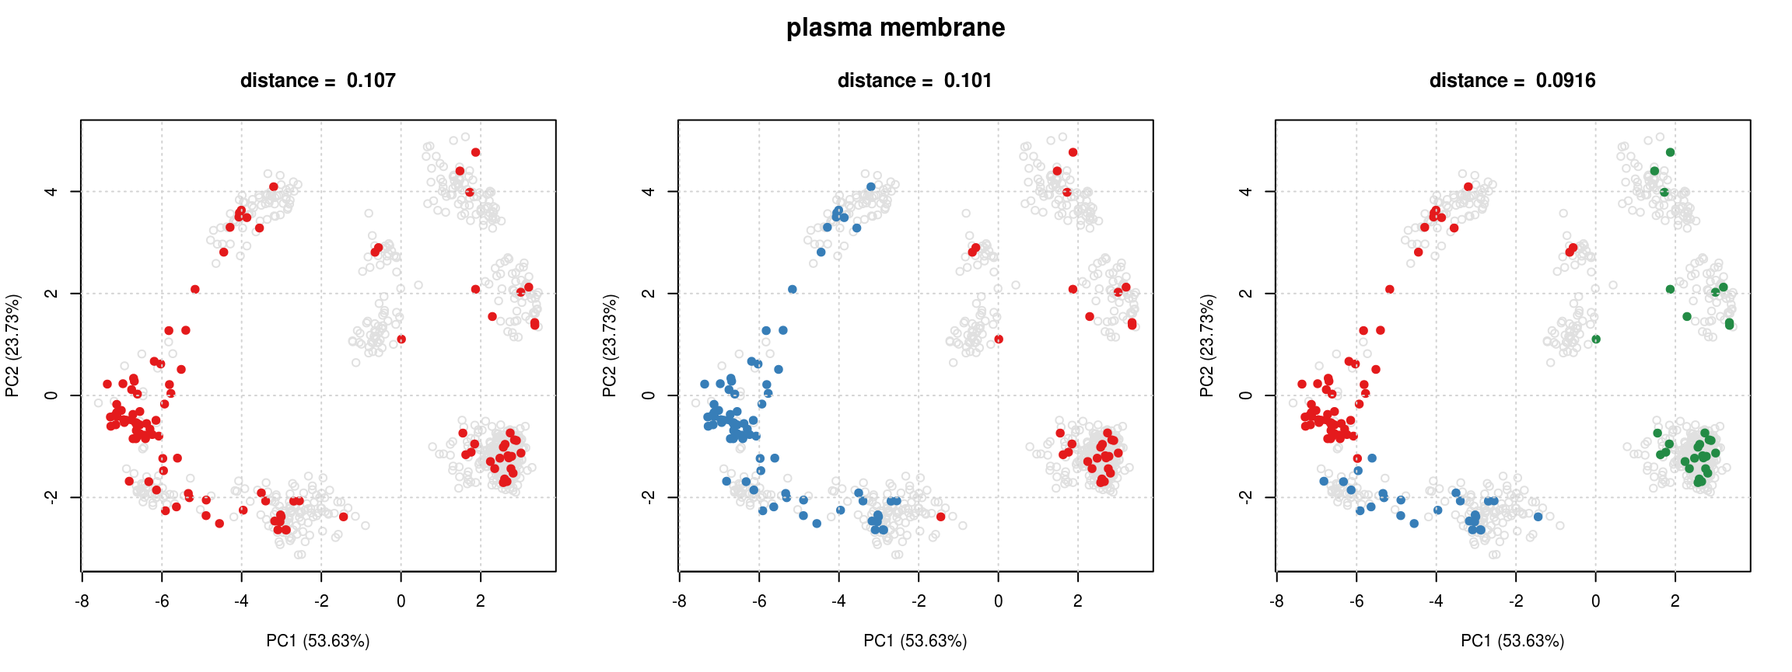
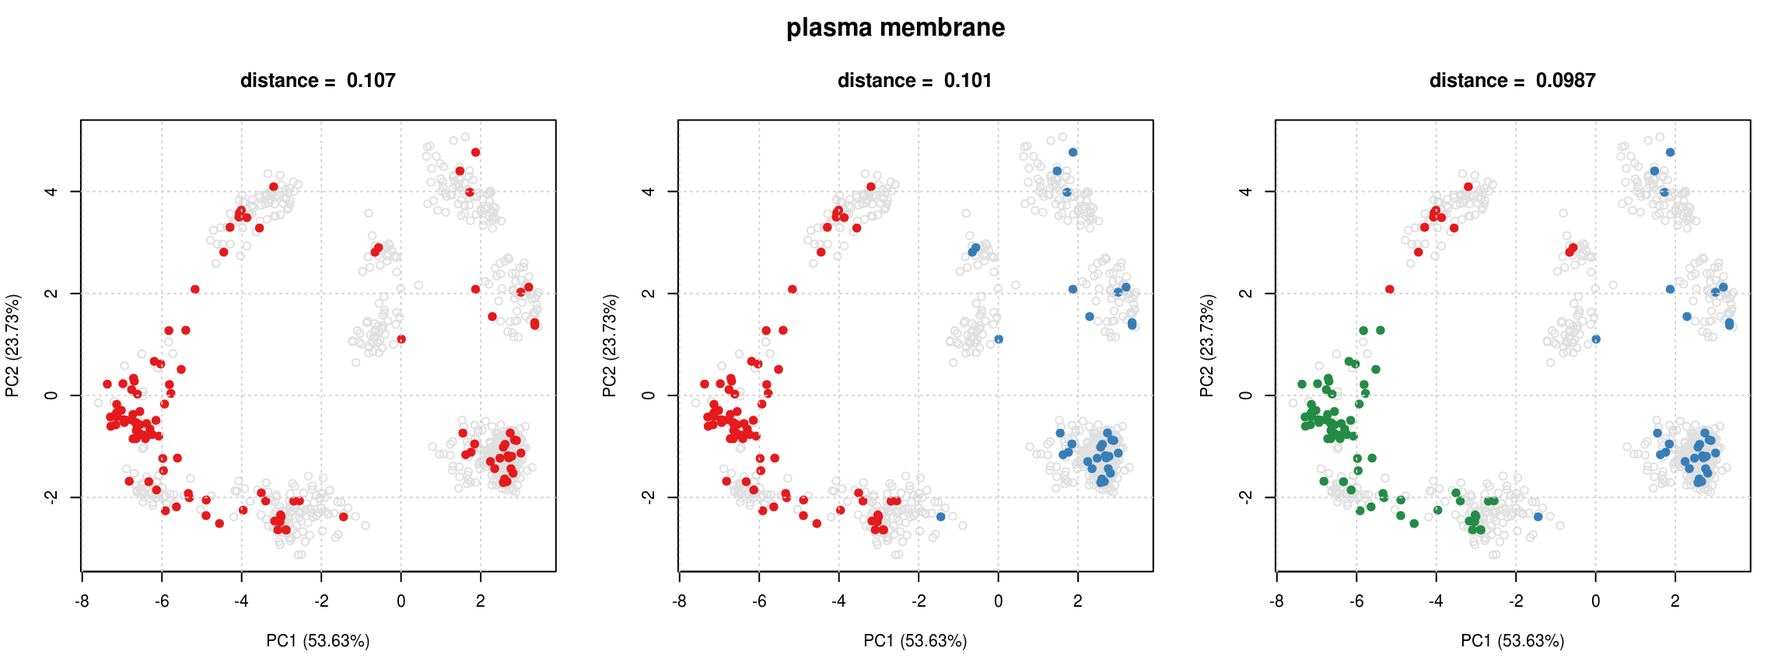
Deploy lgatto/pRoloc to github.com/lgatto/pRoloc.git:gh-pages

diff --git a/reference/plsdaClassification.html b/reference/plsdaClassification.html
@@ -194,8 +194,8 @@ from package <code>caret</code>.</p></td>
 #&gt; 
 #&gt; function (x, ...) 
 #&gt; standardGeneric("params")
-#&gt; &lt;bytecode: 0x593f168&gt;
-#&gt; &lt;environment: 0x5970220&gt;
+#&gt; &lt;bytecode: 0x5c0c6a8&gt;
+#&gt; &lt;environment: 0x5c17750&gt;
 #&gt; Methods may be defined for arguments: x
 #&gt; Use  showMethods("params")  for currently available ones.</div><div class='input'><span class='fu'><a href='https://www.rdocumentation.org/packages/graphics/topics/plot'>plot</a></span>(<span class='no'>params</span>)</div><div class='output co'>#&gt; <span class='error'>Error in (function (classes, fdef, mtable) {    methods &lt;- .findInheritedMethods(classes, fdef, mtable)    if (length(methods) == 1L)         return(methods[[1L]])    else if (length(methods) == 0L) {        cnames &lt;- paste0("\"", vapply(classes, as.character,             ""), "\"", collapse = ", ")        stop(gettextf("unable to find an inherited method for function %s for signature %s",             sQuote(fdef@generic), sQuote(cnames)), domain = NA)    }    else stop("Internal error in finding inherited methods; didn't return a unique method",         domain = NA)})(list("numeric"), new("standardGeneric", .Data = function (x,     ...) standardGeneric("params"), generic = structure("params", package = "S4Vectors"),     package = "S4Vectors", group = list(), valueClass = character(0),     signature = "x", default = NULL, skeleton = (function (x,         ...)     stop("invalid call in method dispatch to 'params' (no default method)",         domain = NA))(x, ...)), &lt;environment&gt;): unable to find an inherited method for function ‘params’ for signature ‘"numeric"’</span></div><div class='input'><span class='fu'><a href='GenRegRes-class.html'>f1Count</a></span>(<span class='no'>params</span>)</div><div class='output co'>#&gt; <span class='error'>Error in (function (classes, fdef, mtable) {    methods &lt;- .findInheritedMethods(classes, fdef, mtable)    if (length(methods) == 1L)         return(methods[[1L]])    else if (length(methods) == 0L) {        cnames &lt;- paste0("\"", vapply(classes, as.character,             ""), "\"", collapse = ", ")        stop(gettextf("unable to find an inherited method for function %s for signature %s",             sQuote(fdef@generic), sQuote(cnames)), domain = NA)    }    else stop("Internal error in finding inherited methods; didn't return a unique method",         domain = NA)})(list(structure("standardGeneric", package = "methods")), new("standardGeneric",     .Data = function (object, ...)     standardGeneric("f1Count"), generic = structure("f1Count", package = "pRoloc"),     package = "pRoloc", group = list(), valueClass = character(0),     signature = "object", default = NULL, skeleton = (function (object,         ...)     stop("invalid call in method dispatch to 'f1Count' (no default method)",         domain = NA))(object, ...)), &lt;environment&gt;): unable to find an inherited method for function ‘f1Count’ for signature ‘"standardGeneric"’</span></div><div class='input'><span class='fu'><a href='GenRegRes-class.html'>levelPlot</a></span>(<span class='no'>params</span>)</div><div class='output co'>#&gt; <span class='error'>Error in (function (classes, fdef, mtable) {    methods &lt;- .findInheritedMethods(classes, fdef, mtable)    if (length(methods) == 1L)         return(methods[[1L]])    else if (length(methods) == 0L) {        cnames &lt;- paste0("\"", vapply(classes, as.character,             ""), "\"", collapse = ", ")        stop(gettextf("unable to find an inherited method for function %s for signature %s",             sQuote(fdef@generic), sQuote(cnames)), domain = NA)    }    else stop("Internal error in finding inherited methods; didn't return a unique method",         domain = NA)})(list(structure("standardGeneric", package = "methods")), new("standardGeneric",     .Data = function (object, ...)     standardGeneric("levelPlot"), generic = structure("levelPlot", package = "pRoloc"),     package = "pRoloc", group = list(), valueClass = character(0),     signature = "object", default = NULL, skeleton = (function (object,         ...)     stop("invalid call in method dispatch to 'levelPlot' (no default method)",         domain = NA))(object, ...)), &lt;environment&gt;): unable to find an inherited method for function ‘levelPlot’ for signature ‘"standardGeneric"’</span></div><div class='input'><span class='fu'><a href='GenRegRes-class.html'>getParams</a></span>(<span class='no'>params</span>)</div><div class='output co'>#&gt; <span class='error'>Error in (function (classes, fdef, mtable) {    methods &lt;- .findInheritedMethods(classes, fdef, mtable)    if (length(methods) == 1L)         return(methods[[1L]])    else if (length(methods) == 0L) {        cnames &lt;- paste0("\"", vapply(classes, as.character,             ""), "\"", collapse = ", ")        stop(gettextf("unable to find an inherited method for function %s for signature %s",             sQuote(fdef@generic), sQuote(cnames)), domain = NA)    }    else stop("Internal error in finding inherited methods; didn't return a unique method",         domain = NA)})(list(structure("standardGeneric", package = "methods")), new("standardGeneric",     .Data = function (object, ...)     standardGeneric("getParams"), generic = structure("getParams", package = "pRoloc"),     package = "pRoloc", group = list(), valueClass = character(0),     signature = "object", default = NULL, skeleton = (function (object,         ...)     stop("invalid call in method dispatch to 'getParams' (no default method)",         domain = NA))(object, ...)), &lt;environment&gt;): unable to find an inherited method for function ‘getParams’ for signature ‘"standardGeneric"’</span></div><div class='input'><span class='no'>res</span> <span class='kw'>&lt;-</span> <span class='fu'>plsdaClassification</span>(<span class='no'>dunkley2006</span>, <span class='no'>params</span>)</div><div class='output co'>#&gt; <span class='error'>Error in (function (classes, fdef, mtable) {    methods &lt;- .findInheritedMethods(classes, fdef, mtable)    if (length(methods) == 1L)         return(methods[[1L]])    else if (length(methods) == 0L) {        cnames &lt;- paste0("\"", vapply(classes, as.character,             ""), "\"", collapse = ", ")        stop(gettextf("unable to find an inherited method for function %s for signature %s",             sQuote(fdef@generic), sQuote(cnames)), domain = NA)    }    else stop("Internal error in finding inherited methods; didn't return a unique method",         domain = NA)})(list(structure("standardGeneric", package = "methods")), new("standardGeneric",     .Data = function (object, ...)     standardGeneric("getParams"), generic = structure("getParams", package = "pRoloc"),     package = "pRoloc", group = list(), valueClass = character(0),     signature = "object", default = NULL, skeleton = (function (object,         ...)     stop("invalid call in method dispatch to 'getParams' (no default method)",         domain = NA))(object, ...)), &lt;environment&gt;): unable to find an inherited method for function ‘getParams’ for signature ‘"standardGeneric"’</span></div><div class='input'><span class='fu'><a href='getPredictions.html'>getPredictions</a></span>(<span class='no'>res</span>, <span class='kw'>fcol</span> <span class='kw'>=</span> <span class='st'>"plsda"</span>)</div><div class='output co'>#&gt; <span class='error'>Error in fData(object): object 'res' not found</span></div><div class='input'><span class='fu'><a href='getPredictions.html'>getPredictions</a></span>(<span class='no'>res</span>, <span class='kw'>fcol</span> <span class='kw'>=</span> <span class='st'>"plsda"</span>, <span class='kw'>t</span> <span class='kw'>=</span> <span class='fl'>0.9</span>)</div><div class='output co'>#&gt; <span class='error'>Error in fData(object): object 'res' not found</span></div><div class='input'><span class='fu'><a href='plot2D.html'>plot2D</a></span>(<span class='no'>res</span>, <span class='kw'>fcol</span> <span class='kw'>=</span> <span class='st'>"plsda"</span>)</div><div class='output co'>#&gt; <span class='error'>Error in plot2D(res, fcol = "plsda"): object 'res' not found</span></div></pre>
   </div>

diff --git a/articles/v01-pRoloc-tutorial.html b/articles/v01-pRoloc-tutorial.html
@@ -306,7 +306,7 @@ document.addEventListener("DOMContentLoaded", function() {
 ## experimentData: use 'experimentData(object)'
 ## Annotation:  
 ## - - - Processing information - - -
-## Quantitation data loaded: Wed Dec 19 21:36:28 2018  using readMSnSet. 
+## Quantitation data loaded: Thu Dec 20 06:10:10 2018  using readMSnSet. 
 ##  MSnbase version: 2.9.1</code></pre>
 </div>
 </div>
@@ -466,8 +466,8 @@ document.addEventListener("DOMContentLoaded", function() {
 <pre><code>## - - - Processing information - - -
 ## Data loaded: Wed May 11 18:54:39 2011 
 ## Updated from version 0.3.0 to 0.3.1 [Fri Jul  8 20:23:25 2016] 
-## iTRAQ4 quantification by trapezoidation: Wed Dec 19 21:36:30 2018 
-## Normalised (sum): Wed Dec 19 21:36:30 2018 
+## iTRAQ4 quantification by trapezoidation: Thu Dec 20 06:10:12 2018 
+## Normalised (sum): Thu Dec 20 06:10:12 2018 
 ##  MSnbase version: 1.1.22</code></pre>
 <div class="sourceCode" id="cb46"><pre class="sourceCode r"><code class="sourceCode r"><a class="sourceLine" id="cb46-1" data-line-number="1"><span class="kw"><a href="https://www.rdocumentation.org/packages/utils/topics/head">head</a></span>(<span class="kw">exprs</span>(itraqnorm), <span class="dt">n =</span> <span class="dv">3</span>)</a></code></pre></div>
 <pre><code>##     iTRAQ4.114 iTRAQ4.115 iTRAQ4.116 iTRAQ4.117
@@ -749,7 +749,7 @@ Assessing parameter optimisation. On the left, we see the respective distributio
 <a class="sourceLine" id="cb86-4" data-line-number="4"><span class="kw"><a href="https://www.rdocumentation.org/packages/MSnbase/topics/pSet-class">processingData</a></span>(svmres)</a></code></pre></div>
 <pre><code>## - - - Processing information - - -
 ## Added markers from  'mrk' marker vector. Thu Jul 16 22:53:44 2015 
-## Performed svm prediction (sigma=0.1 cost=0.5) Wed Dec 19 21:36:37 2018 
+## Performed svm prediction (sigma=0.1 cost=0.5) Thu Dec 20 06:10:18 2018 
 ##  MSnbase version: 1.17.12</code></pre>
 <div class="sourceCode" id="cb88"><pre class="sourceCode r"><code class="sourceCode r"><a class="sourceLine" id="cb88-1" data-line-number="1"><span class="kw"><a href="https://www.rdocumentation.org/packages/utils/topics/head">tail</a></span>(<span class="kw">fvarLabels</span>(svmres), <span class="dv">4</span>)</a></code></pre></div>
 <pre><code>## [1] "markers"    "markers.tl" "svm"        "svm.scores"</code></pre>
@@ -851,8 +851,8 @@ Organelle-specific SVM score distributions.
 ## Annotation:  
 ## - - - Processing information - - -
 ## Added markers from  'mrk' marker vector. Thu Jul 16 22:53:44 2015 
-## Performed svm prediction (sigma=0.1 cost=0.5) Wed Dec 19 21:36:37 2018 
-## Added svm predictions according to thresholds: ER = 0.84, Golgi = 0.63, mitochondrion = 0.75, PM = 0.76 Wed Dec 19 21:36:37 2018 
+## Performed svm prediction (sigma=0.1 cost=0.5) Thu Dec 20 06:10:18 2018 
+## Added svm predictions according to thresholds: ER = 0.84, Golgi = 0.63, mitochondrion = 0.75, PM = 0.76 Thu Dec 20 06:10:19 2018 
 ##  MSnbase version: 1.17.12</code></pre>
 <p>We can now visualise these results using the plotting functions presented in section @ref(sec:usml), as shown on figure @ref(fig:svmres). We clearly see that besides the organelle marker clusters that have been assigned high confidence members, many other proteins have substantially lower prediction scores.</p>
 <div class="sourceCode" id="cb102"><pre class="sourceCode r"><code class="sourceCode r"><a class="sourceLine" id="cb102-1" data-line-number="1">ptsze &lt;-<span class="st"> </span><span class="kw"><a href="https://www.rdocumentation.org/packages/base/topics/Log">exp</a></span>(<span class="kw">fData</span>(svmres)<span class="op">$</span>svm.scores) <span class="op">-</span><span class="st"> </span><span class="dv">1</span></a>
@@ -965,7 +965,7 @@ Classification results. The results of the second round of classification, using
 <h1 class="hasAnchor">
 <a href="#session-information" class="anchor"></a>Session information</h1>
 <p>All software and respective versions used to produce this document are listed below.</p>
-<pre><code>## R Under development (unstable) (2018-12-19 r75866)
+<pre><code>## R Under development (unstable) (2018-12-20 r75868)
 ## Platform: x86_64-pc-linux-gnu (64-bit)
 ## Running under: Ubuntu 14.04.5 LTS
 ## 

diff --git a/reference/getPredictions.html b/reference/getPredictions.html
@@ -225,8 +225,8 @@ thresholds.</p></div>
 #&gt; Loaded on Thu Jul 16 22:53:08 2015. 
 #&gt; Normalised to sum of intensities. 
 #&gt; Added markers from  'mrk' marker vector. Thu Jul 16 22:53:08 2015 
-#&gt; Performed svm prediction (cost=0.5 sigma=0.1) Wed Dec 19 21:34:57 2018 
-#&gt; Added svm predictions according to global threshold = 0 Wed Dec 19 21:34:57 2018 
+#&gt; Performed svm prediction (cost=0.5 sigma=0.1) Thu Dec 20 06:08:42 2018 
+#&gt; Added svm predictions according to global threshold = 0 Thu Dec 20 06:08:42 2018 
 #&gt;  MSnbase version: 1.17.12 </div><div class='input'><span class='fu'>getPredictions</span>(<span class='no'>res</span>, <span class='kw'>fcol</span> <span class='kw'>=</span> <span class='st'>"svm"</span>, <span class='kw'>t</span> <span class='kw'>=</span> <span class='fl'>.9</span>) <span class='co'>## single threshold </span></div><div class='output co'>#&gt; ans
 #&gt;      ER lumen   ER membrane         Golgi Mitochondrion       Plastid 
 #&gt;            14            56            28            55            20 
@@ -250,8 +250,8 @@ thresholds.</p></div>
 #&gt; Loaded on Thu Jul 16 22:53:08 2015. 
 #&gt; Normalised to sum of intensities. 
 #&gt; Added markers from  'mrk' marker vector. Thu Jul 16 22:53:08 2015 
-#&gt; Performed svm prediction (cost=0.5 sigma=0.1) Wed Dec 19 21:34:57 2018 
-#&gt; Added svm predictions according to global threshold = 0.9 Wed Dec 19 21:34:57 2018 
+#&gt; Performed svm prediction (cost=0.5 sigma=0.1) Thu Dec 20 06:08:42 2018 
+#&gt; Added svm predictions according to global threshold = 0.9 Thu Dec 20 06:08:42 2018 
 #&gt;  MSnbase version: 1.17.12 </div><div class='input'><span class='co'>## 50% top predictions per class</span>
 <span class='no'>ts</span> <span class='kw'>&lt;-</span> <span class='fu'><a href='orgQuants.html'>orgQuants</a></span>(<span class='no'>res</span>, <span class='kw'>fcol</span> <span class='kw'>=</span> <span class='st'>"svm"</span>, <span class='kw'>t</span> <span class='kw'>=</span> <span class='fl'>.5</span>)</div><div class='output co'>#&gt;      ER lumen   ER membrane         Golgi Mitochondrion       Plastid 
 #&gt;     0.2995766     0.8368847     0.7805362     0.7484314     0.7746137 
@@ -279,8 +279,8 @@ thresholds.</p></div>
 #&gt; Loaded on Thu Jul 16 22:53:08 2015. 
 #&gt; Normalised to sum of intensities. 
 #&gt; Added markers from  'mrk' marker vector. Thu Jul 16 22:53:08 2015 
-#&gt; Performed svm prediction (cost=0.5 sigma=0.1) Wed Dec 19 21:34:57 2018 
-#&gt; Added svm predictions according to thresholds: ER lumen = 0.30, ER membrane = 0.84, Golgi = 0.78, Mitochondrion = 0.75, Plastid = 0.77, PM = 0.73, Ribosome = 0.54, TGN = 0.53, vacuole = 0.57 Wed Dec 19 21:34:57 2018 
+#&gt; Performed svm prediction (cost=0.5 sigma=0.1) Thu Dec 20 06:08:42 2018 
+#&gt; Added svm predictions according to thresholds: ER lumen = 0.30, ER membrane = 0.84, Golgi = 0.78, Mitochondrion = 0.75, Plastid = 0.77, PM = 0.73, Ribosome = 0.54, TGN = 0.53, vacuole = 0.57 Thu Dec 20 06:08:42 2018 
 #&gt;  MSnbase version: 1.17.12 </div></pre>
   </div>
   <div class="col-md-3 hidden-xs hidden-sm" id="sidebar">

diff --git a/reference/perTurboClassification.html b/reference/perTurboClassification.html
@@ -258,8 +258,8 @@ Default is <code>markers</code>.</p></td>
 #&gt; Loaded on Thu Jul 16 22:53:08 2015. 
 #&gt; Normalised to sum of intensities. 
 #&gt; Added markers from  'mrk' marker vector. Thu Jul 16 22:53:08 2015 
-#&gt; Performed perTurbo prediction (sigma=0.1 pRegul=4) Wed Dec 19 21:35:48 2018 
-#&gt; Added perTurbo predictions according to global threshold = 0 Wed Dec 19 21:35:48 2018 
+#&gt; Performed perTurbo prediction (sigma=0.1 pRegul=4) Thu Dec 20 06:09:32 2018 
+#&gt; Added perTurbo predictions according to global threshold = 0 Thu Dec 20 06:09:32 2018 
 #&gt;  MSnbase version: 1.17.12 </div><div class='input'><span class='fu'><a href='getPredictions.html'>getPredictions</a></span>(<span class='no'>res</span>, <span class='kw'>fcol</span> <span class='kw'>=</span> <span class='st'>"perTurbo"</span>, <span class='kw'>t</span> <span class='kw'>=</span> <span class='fl'>0.75</span>)</div><div class='output co'>#&gt; ans
 #&gt;      ER lumen   ER membrane         Golgi Mitochondrion       Plastid 
 #&gt;            14            45            28            55            20 
@@ -283,8 +283,8 @@ Default is <code>markers</code>.</p></td>
 #&gt; Loaded on Thu Jul 16 22:53:08 2015. 
 #&gt; Normalised to sum of intensities. 
 #&gt; Added markers from  'mrk' marker vector. Thu Jul 16 22:53:08 2015 
-#&gt; Performed perTurbo prediction (sigma=0.1 pRegul=4) Wed Dec 19 21:35:48 2018 
-#&gt; Added perTurbo predictions according to global threshold = 0.75 Wed Dec 19 21:35:48 2018 
+#&gt; Performed perTurbo prediction (sigma=0.1 pRegul=4) Thu Dec 20 06:09:32 2018 
+#&gt; Added perTurbo predictions according to global threshold = 0.75 Thu Dec 20 06:09:32 2018 
 #&gt;  MSnbase version: 1.17.12 </div><div class='input'><span class='fu'><a href='plot2D.html'>plot2D</a></span>(<span class='no'>res</span>, <span class='kw'>fcol</span> <span class='kw'>=</span> <span class='st'>"perTurbo"</span>)</div><div class='img'><img src='perTurboClassification-3.png' alt='' width='700' height='433' /></div></pre>
   </div>
   <div class="col-md-3 hidden-xs hidden-sm" id="sidebar">

diff --git a/reference/nbClassification.html b/reference/nbClassification.html
@@ -225,8 +225,8 @@ Default is <code>markers</code>.</p></td>
 #&gt; Loaded on Thu Jul 16 22:53:08 2015. 
 #&gt; Normalised to sum of intensities. 
 #&gt; Added markers from  'mrk' marker vector. Thu Jul 16 22:53:08 2015 
-#&gt; Performed naiveBayes prediction (laplace=5) Wed Dec 19 21:35:29 2018 
-#&gt; Added naiveBayes predictions according to global threshold = 0 Wed Dec 19 21:35:29 2018 
+#&gt; Performed naiveBayes prediction (laplace=5) Thu Dec 20 06:09:13 2018 
+#&gt; Added naiveBayes predictions according to global threshold = 0 Thu Dec 20 06:09:13 2018 
 #&gt;  MSnbase version: 1.17.12 </div><div class='input'><span class='fu'><a href='getPredictions.html'>getPredictions</a></span>(<span class='no'>res</span>, <span class='kw'>fcol</span> <span class='kw'>=</span> <span class='st'>"naiveBayes"</span>, <span class='kw'>t</span> <span class='kw'>=</span> <span class='fl'>1</span>)</div><div class='output co'>#&gt; ans
 #&gt;      ER lumen   ER membrane         Golgi Mitochondrion       Plastid 
 #&gt;            14            45            69            61            43 
@@ -250,8 +250,8 @@ Default is <code>markers</code>.</p></td>
 #&gt; Loaded on Thu Jul 16 22:53:08 2015. 
 #&gt; Normalised to sum of intensities. 
 #&gt; Added markers from  'mrk' marker vector. Thu Jul 16 22:53:08 2015 
-#&gt; Performed naiveBayes prediction (laplace=5) Wed Dec 19 21:35:29 2018 
-#&gt; Added naiveBayes predictions according to global threshold = 1 Wed Dec 19 21:35:29 2018 
+#&gt; Performed naiveBayes prediction (laplace=5) Thu Dec 20 06:09:13 2018 
+#&gt; Added naiveBayes predictions according to global threshold = 1 Thu Dec 20 06:09:13 2018 
 #&gt;  MSnbase version: 1.17.12 </div><div class='input'><span class='fu'><a href='plot2D.html'>plot2D</a></span>(<span class='no'>res</span>, <span class='kw'>fcol</span> <span class='kw'>=</span> <span class='st'>"naiveBayes"</span>)</div><div class='img'><img src='nbClassification-3.png' alt='' width='700' height='433' /></div></pre>
   </div>
   <div class="col-md-3 hidden-xs hidden-sm" id="sidebar">

diff --git a/reference/nnetClassification.html b/reference/nnetClassification.html
@@ -246,8 +246,8 @@ package <code>nnet</code>.</p></td>
 #&gt; Loaded on Thu Jul 16 22:53:08 2015. 
 #&gt; Normalised to sum of intensities. 
 #&gt; Added markers from  'mrk' marker vector. Thu Jul 16 22:53:08 2015 
-#&gt; Performed nnet prediction (decay=1e-05 size=10) Wed Dec 19 21:35:35 2018 
-#&gt; Added nnet predictions according to global threshold = 0 Wed Dec 19 21:35:35 2018 
+#&gt; Performed nnet prediction (decay=1e-05 size=10) Thu Dec 20 06:09:19 2018 
+#&gt; Added nnet predictions according to global threshold = 0 Thu Dec 20 06:09:19 2018 
 #&gt;  MSnbase version: 1.17.12 </div><div class='input'><span class='fu'><a href='getPredictions.html'>getPredictions</a></span>(<span class='no'>res</span>, <span class='kw'>fcol</span> <span class='kw'>=</span> <span class='st'>"nnet"</span>, <span class='kw'>t</span> <span class='kw'>=</span> <span class='fl'>0.75</span>)</div><div class='output co'>#&gt; ans
 #&gt;      ER lumen   ER membrane         Golgi Mitochondrion       Plastid 
 #&gt;            27           168            94           107            50 
@@ -271,8 +271,8 @@ package <code>nnet</code>.</p></td>
 #&gt; Loaded on Thu Jul 16 22:53:08 2015. 
 #&gt; Normalised to sum of intensities. 
 #&gt; Added markers from  'mrk' marker vector. Thu Jul 16 22:53:08 2015 
-#&gt; Performed nnet prediction (decay=1e-05 size=10) Wed Dec 19 21:35:35 2018 
-#&gt; Added nnet predictions according to global threshold = 0.75 Wed Dec 19 21:35:35 2018 
+#&gt; Performed nnet prediction (decay=1e-05 size=10) Thu Dec 20 06:09:19 2018 
+#&gt; Added nnet predictions according to global threshold = 0.75 Thu Dec 20 06:09:19 2018 
 #&gt;  MSnbase version: 1.17.12 </div><div class='input'><span class='fu'><a href='plot2D.html'>plot2D</a></span>(<span class='no'>res</span>, <span class='kw'>fcol</span> <span class='kw'>=</span> <span class='st'>"nnet"</span>)</div><div class='img'><img src='nnetClassification-3.png' alt='' width='700' height='433' /></div></pre>
   </div>
   <div class="col-md-3 hidden-xs hidden-sm" id="sidebar">

diff --git a/reference/rfClassification.html b/reference/rfClassification.html
@@ -225,8 +225,8 @@ Default is <code>markers</code>.</p></td>
 #&gt; Loaded on Thu Jul 16 22:53:08 2015. 
 #&gt; Normalised to sum of intensities. 
 #&gt; Added markers from  'mrk' marker vector. Thu Jul 16 22:53:08 2015 
-#&gt; Performed random forest prediction (mtry=5) Wed Dec 19 21:36:05 2018 
-#&gt; Added rf predictions according to global threshold = 0 Wed Dec 19 21:36:05 2018 
+#&gt; Performed random forest prediction (mtry=5) Thu Dec 20 06:09:48 2018 
+#&gt; Added rf predictions according to global threshold = 0 Thu Dec 20 06:09:48 2018 
 #&gt;  MSnbase version: 1.17.12 </div><div class='input'><span class='fu'><a href='getPredictions.html'>getPredictions</a></span>(<span class='no'>res</span>, <span class='kw'>fcol</span> <span class='kw'>=</span> <span class='st'>"rf"</span>, <span class='kw'>t</span> <span class='kw'>=</span> <span class='fl'>0.75</span>)</div><div class='output co'>#&gt; ans
 #&gt;      ER lumen   ER membrane         Golgi Mitochondrion       Plastid 
 #&gt;            14           150            78            92            47 
@@ -250,8 +250,8 @@ Default is <code>markers</code>.</p></td>
 #&gt; Loaded on Thu Jul 16 22:53:08 2015. 
 #&gt; Normalised to sum of intensities. 
 #&gt; Added markers from  'mrk' marker vector. Thu Jul 16 22:53:08 2015 
-#&gt; Performed random forest prediction (mtry=5) Wed Dec 19 21:36:05 2018 
-#&gt; Added rf predictions according to global threshold = 0.75 Wed Dec 19 21:36:05 2018 
+#&gt; Performed random forest prediction (mtry=5) Thu Dec 20 06:09:48 2018 
+#&gt; Added rf predictions according to global threshold = 0.75 Thu Dec 20 06:09:48 2018 
 #&gt;  MSnbase version: 1.17.12 </div><div class='input'><span class='fu'><a href='plot2D.html'>plot2D</a></span>(<span class='no'>res</span>, <span class='kw'>fcol</span> <span class='kw'>=</span> <span class='st'>"rf"</span>)</div><div class='img'><img src='rfClassification-3.png' alt='' width='700' height='433' /></div></pre>
   </div>
   <div class="col-md-3 hidden-xs hidden-sm" id="sidebar">

diff --git a/reference/svmClassification.html b/reference/svmClassification.html
@@ -231,8 +231,8 @@ package <code>e1071</code>.</p></td>
 #&gt; Loaded on Thu Jul 16 22:53:08 2015. 
 #&gt; Normalised to sum of intensities. 
 #&gt; Added markers from  'mrk' marker vector. Thu Jul 16 22:53:08 2015 
-#&gt; Performed svm prediction (sigma=0.1 cost=1) Wed Dec 19 21:36:12 2018 
-#&gt; Added svm predictions according to global threshold = 0 Wed Dec 19 21:36:12 2018 
+#&gt; Performed svm prediction (sigma=0.1 cost=1) Thu Dec 20 06:09:54 2018 
+#&gt; Added svm predictions according to global threshold = 0 Thu Dec 20 06:09:54 2018 
 #&gt;  MSnbase version: 1.17.12 </div><div class='input'><span class='fu'><a href='getPredictions.html'>getPredictions</a></span>(<span class='no'>res</span>, <span class='kw'>fcol</span> <span class='kw'>=</span> <span class='st'>"svm"</span>, <span class='kw'>t</span> <span class='kw'>=</span> <span class='fl'>0.75</span>)</div><div class='output co'>#&gt; ans
 #&gt;      ER lumen   ER membrane         Golgi Mitochondrion       Plastid 
 #&gt;            14           145            70            93            42 
@@ -256,8 +256,8 @@ package <code>e1071</code>.</p></td>
 #&gt; Loaded on Thu Jul 16 22:53:08 2015. 
 #&gt; Normalised to sum of intensities. 
 #&gt; Added markers from  'mrk' marker vector. Thu Jul 16 22:53:08 2015 
-#&gt; Performed svm prediction (sigma=0.1 cost=1) Wed Dec 19 21:36:12 2018 
-#&gt; Added svm predictions according to global threshold = 0.75 Wed Dec 19 21:36:12 2018 
+#&gt; Performed svm prediction (sigma=0.1 cost=1) Thu Dec 20 06:09:54 2018 
+#&gt; Added svm predictions according to global threshold = 0.75 Thu Dec 20 06:09:54 2018 
 #&gt;  MSnbase version: 1.17.12 </div><div class='input'><span class='fu'><a href='plot2D.html'>plot2D</a></span>(<span class='no'>res</span>, <span class='kw'>fcol</span> <span class='kw'>=</span> <span class='st'>"svm"</span>)</div><div class='img'><img src='svmClassification-3.png' alt='' width='700' height='433' /></div></pre>
   </div>
   <div class="col-md-3 hidden-xs hidden-sm" id="sidebar">

diff --git a/reference/ksvmClassification.html b/reference/ksvmClassification.html
@@ -227,8 +227,8 @@ package <code>kernlab</code>.</p></td>
 #&gt; Loaded on Thu Jul 16 22:53:08 2015. 
 #&gt; Normalised to sum of intensities. 
 #&gt; Added markers from  'mrk' marker vector. Thu Jul 16 22:53:08 2015 
-#&gt; Performed ksvm prediction (cost=16) Wed Dec 19 21:35:21 2018 
-#&gt; Added ksvm predictions according to global threshold = 0 Wed Dec 19 21:35:21 2018 
+#&gt; Performed ksvm prediction (cost=16) Thu Dec 20 06:09:05 2018 
+#&gt; Added ksvm predictions according to global threshold = 0 Thu Dec 20 06:09:05 2018 
 #&gt;  MSnbase version: 1.17.12 </div><div class='input'><span class='fu'><a href='getPredictions.html'>getPredictions</a></span>(<span class='no'>res</span>, <span class='kw'>fcol</span> <span class='kw'>=</span> <span class='st'>"ksvm"</span>, <span class='kw'>t</span> <span class='kw'>=</span> <span class='fl'>0.75</span>)</div><div class='output co'>#&gt; ans
 #&gt;      ER lumen   ER membrane         Golgi Mitochondrion       Plastid 
 #&gt;            14           154            65            55            20 
@@ -252,8 +252,8 @@ package <code>kernlab</code>.</p></td>
 #&gt; Loaded on Thu Jul 16 22:53:08 2015. 
 #&gt; Normalised to sum of intensities. 
 #&gt; Added markers from  'mrk' marker vector. Thu Jul 16 22:53:08 2015 
-#&gt; Performed ksvm prediction (cost=16) Wed Dec 19 21:35:21 2018 
-#&gt; Added ksvm predictions according to global threshold = 0.75 Wed Dec 19 21:35:21 2018 
+#&gt; Performed ksvm prediction (cost=16) Thu Dec 20 06:09:05 2018 
+#&gt; Added ksvm predictions according to global threshold = 0.75 Thu Dec 20 06:09:05 2018 
 #&gt;  MSnbase version: 1.17.12 </div><div class='input'><span class='fu'><a href='plot2D.html'>plot2D</a></span>(<span class='no'>res</span>, <span class='kw'>fcol</span> <span class='kw'>=</span> <span class='st'>"ksvm"</span>)</div><div class='img'><img src='ksvmClassification-3.png' alt='' width='700' height='433' /></div></pre>
   </div>
   <div class="col-md-3 hidden-xs hidden-sm" id="sidebar">

diff --git a/articles/v05-pRoloc-transfer-learning.html b/articles/v05-pRoloc-transfer-learning.html
@@ -167,7 +167,7 @@ document.addEventListener("DOMContentLoaded", function() {
 ##  Using the 'ENSEMBL_MART_ENSEMBL' BioMart database
 ##  Using the 'hsapiens_gene_ensembl' dataset
 ##  Using 'uniprotswissprot' as filter
-##  Created on Wed Dec 19 21:40:15 2018</code></pre>
+##  Created on Thu Dec 20 06:13:42 2018</code></pre>
 <p>The <em>setAnnotationParams</em> function automatically sets the annotation parameters globally so that the <code>ap</code> object does not need to be explicitly set later on. The default parameters can be retrieved with <em>getAnnotationParams</em>.</p>
 </div>
 <div id="sec:auxgo" class="section level3">
@@ -193,7 +193,7 @@ document.addEventListener("DOMContentLoaded", function() {
 ## experimentData: use 'experimentData(object)'
 ## Annotation:  
 ## - - - Processing information - - -
-## Constructed GO set using cellular_component namespace [Wed Dec 19 21:40:39 2018] 
+## Constructed GO set using cellular_component namespace [Thu Dec 20 06:13:55 2018] 
 ##  MSnbase version: 2.9.1</code></pre>
 <div class="sourceCode" id="cb13"><pre class="sourceCode r"><code class="sourceCode r"><a class="sourceLine" id="cb13-1" data-line-number="1"><span class="kw">exprs</span>(andygoset)[<span class="dv">1</span><span class="op">:</span><span class="dv">7</span>, <span class="dv">1</span><span class="op">:</span><span class="dv">4</span>]</a></code></pre></div>
 <pre><code>##        GO:0016020 GO:0016021 GO:0005783 GO:0005730
@@ -536,7 +536,7 @@ PCA plot of <code>andy2011</code> after transfer learning classification. The si
 <h1 class="hasAnchor">
 <a href="#session-information" class="anchor"></a>Session information</h1>
 <p>All software and respective versions used to produce this document are listed below.</p>
-<pre><code>## R Under development (unstable) (2018-12-19 r75866)
+<pre><code>## R Under development (unstable) (2018-12-20 r75868)
 ## Platform: x86_64-pc-linux-gnu (64-bit)
 ## Running under: Ubuntu 14.04.5 LTS
 ## 

diff --git a/reference/knnClassification.html b/reference/knnClassification.html
@@ -225,8 +225,8 @@ package <code>class</code>.</p></td>
 #&gt; Loaded on Thu Jul 16 22:53:08 2015. 
 #&gt; Normalised to sum of intensities. 
 #&gt; Added markers from  'mrk' marker vector. Thu Jul 16 22:53:08 2015 
-#&gt; Performed knn prediction (k=3) Wed Dec 19 21:35:02 2018 
-#&gt; Added knn predictions according to global threshold = 0 Wed Dec 19 21:35:02 2018 
+#&gt; Performed knn prediction (k=3) Thu Dec 20 06:08:47 2018 
+#&gt; Added knn predictions according to global threshold = 0 Thu Dec 20 06:08:47 2018 
 #&gt;  MSnbase version: 1.17.12 </div><div class='input'><span class='fu'><a href='getPredictions.html'>getPredictions</a></span>(<span class='no'>res</span>, <span class='kw'>fcol</span> <span class='kw'>=</span> <span class='st'>"knn"</span>, <span class='kw'>t</span> <span class='kw'>=</span> <span class='fl'>0.75</span>)</div><div class='output co'>#&gt; ans
 #&gt;      ER lumen   ER membrane         Golgi Mitochondrion       Plastid 
 #&gt;            15           173            83           103            49 
@@ -250,8 +250,8 @@ package <code>class</code>.</p></td>
 #&gt; Loaded on Thu Jul 16 22:53:08 2015. 
 #&gt; Normalised to sum of intensities. 
 #&gt; Added markers from  'mrk' marker vector. Thu Jul 16 22:53:08 2015 
-#&gt; Performed knn prediction (k=3) Wed Dec 19 21:35:02 2018 
-#&gt; Added knn predictions according to global threshold = 0.75 Wed Dec 19 21:35:02 2018 
+#&gt; Performed knn prediction (k=3) Thu Dec 20 06:08:47 2018 
+#&gt; Added knn predictions according to global threshold = 0.75 Thu Dec 20 06:08:47 2018 
 #&gt;  MSnbase version: 1.17.12 </div><div class='input'><span class='fu'><a href='plot2D.html'>plot2D</a></span>(<span class='no'>res</span>, <span class='kw'>fcol</span> <span class='kw'>=</span> <span class='st'>"knn"</span>)</div><div class='img'><img src='knnClassification-3.png' alt='' width='700' height='433' /></div></pre>
   </div>
   <div class="col-md-3 hidden-xs hidden-sm" id="sidebar">

diff --git a/articles/v02-pRoloc-ml.html b/articles/v02-pRoloc-ml.html
@@ -226,9 +226,9 @@ document.addEventListener("DOMContentLoaded", function() {
 ## Results
 ##  macro F1:
 ##    Min. 1st Qu.  Median    Mean 3rd Qu.    Max. 
-##  0.7286  0.8318  0.9036  0.8712  0.9168  0.9308 
-##  best sigma: 1   
-##  best cost: 8 16 4 2   
+##  0.7923  0.8343  0.8706  0.8601  0.8773  0.9262 
+##  best sigma: 1 0.1   
+##  best cost: 2 4 16 8   
 ## Use getWarnings() to see warnings.</code></pre>
 </div>
 <div id="classification" class="section level2 unnumbered">
@@ -253,7 +253,7 @@ document.addEventListener("DOMContentLoaded", function() {
 ## Annotation:  
 ## - - - Processing information - - -
 ## Added markers from  'mrk' marker vector. Thu Jul 16 22:53:44 2015 
-## Performed svm prediction (sigma=1 cost=16) Wed Dec 19 21:38:27 2018 
+## Performed svm prediction (sigma=1 cost=8) Thu Dec 20 06:12:07 2018 
 ##  MSnbase version: 1.17.12</code></pre>
 </div>
 <div id="customising-model-parameters" class="section level2">
@@ -371,7 +371,7 @@ document.addEventListener("DOMContentLoaded", function() {
 <h1 class="hasAnchor">
 <a href="#session-information" class="anchor"></a>Session information</h1>
 <p>All software and respective versions used to produce this document are listed below.</p>
-<pre><code>## R Under development (unstable) (2018-12-19 r75866)
+<pre><code>## R Under development (unstable) (2018-12-20 r75868)
 ## Platform: x86_64-pc-linux-gnu (64-bit)
 ## Running under: Ubuntu 14.04.5 LTS
 ## 
